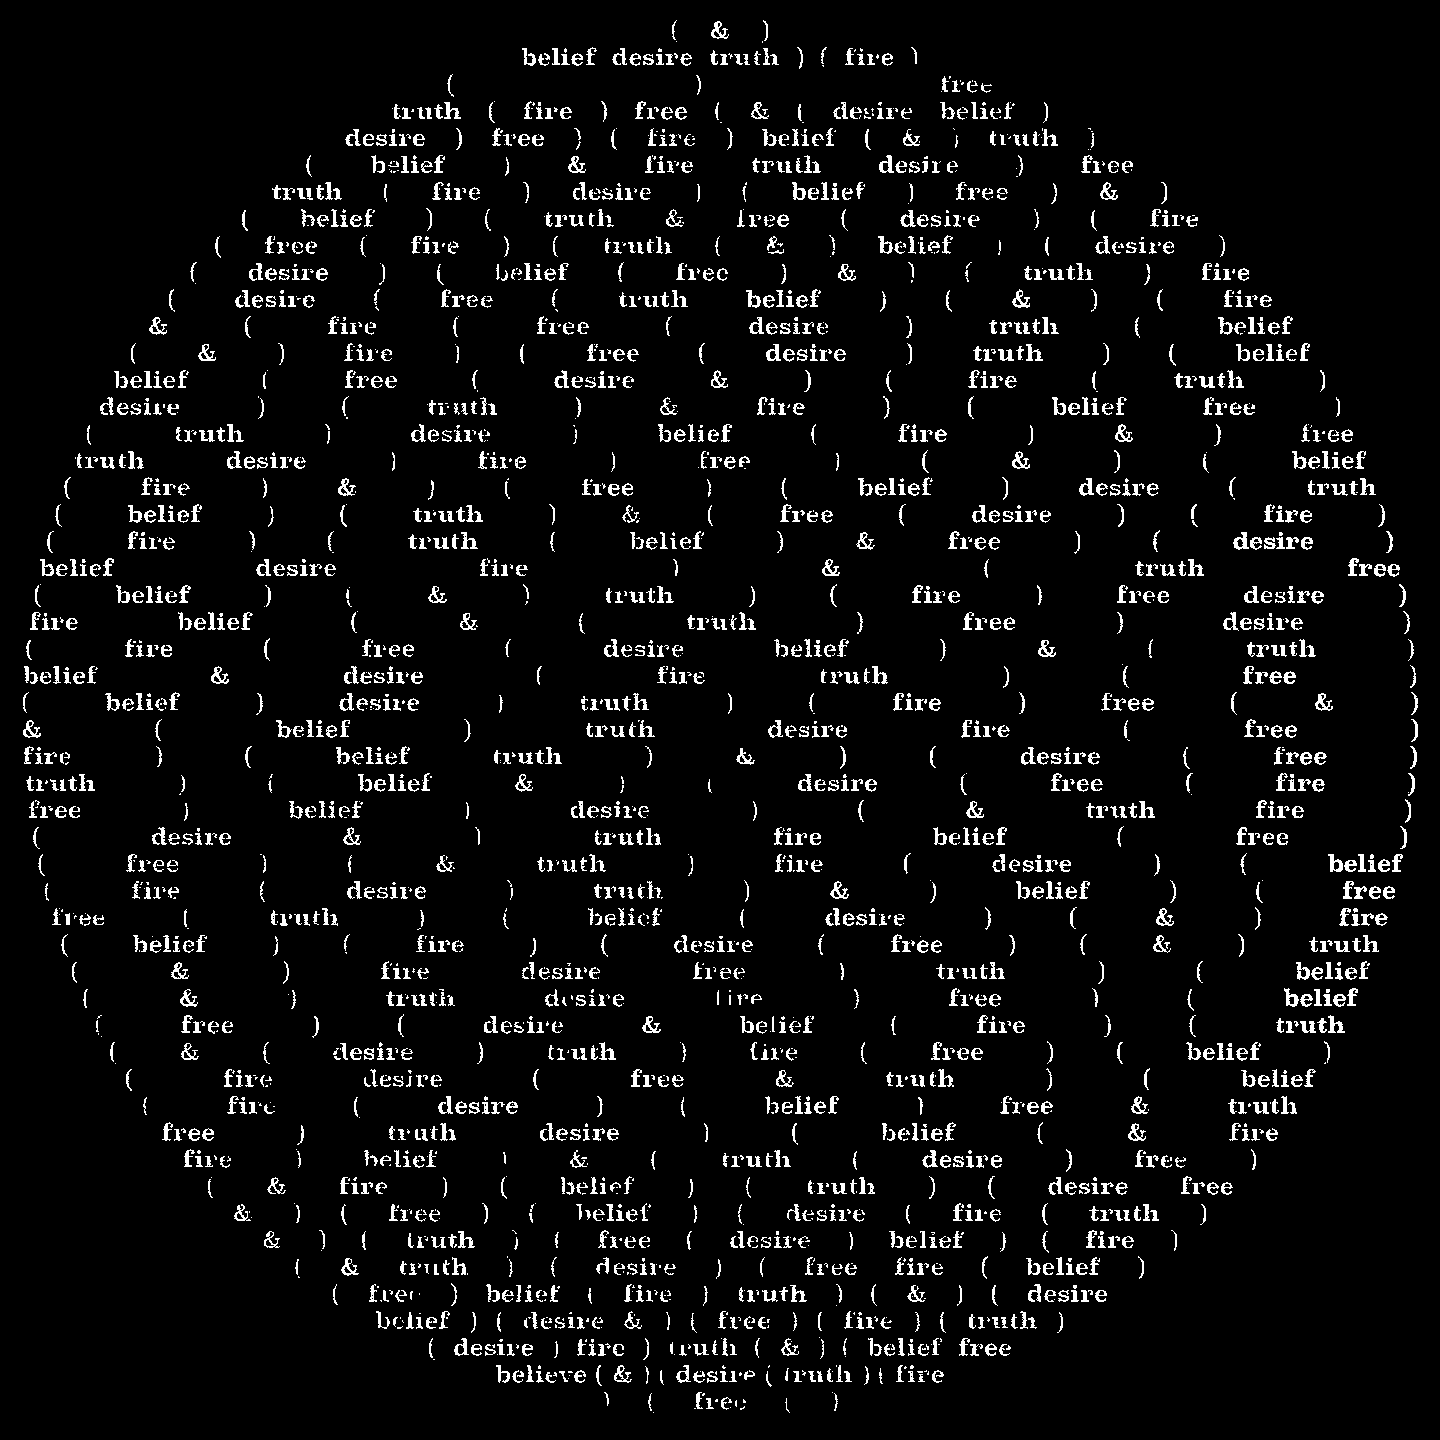
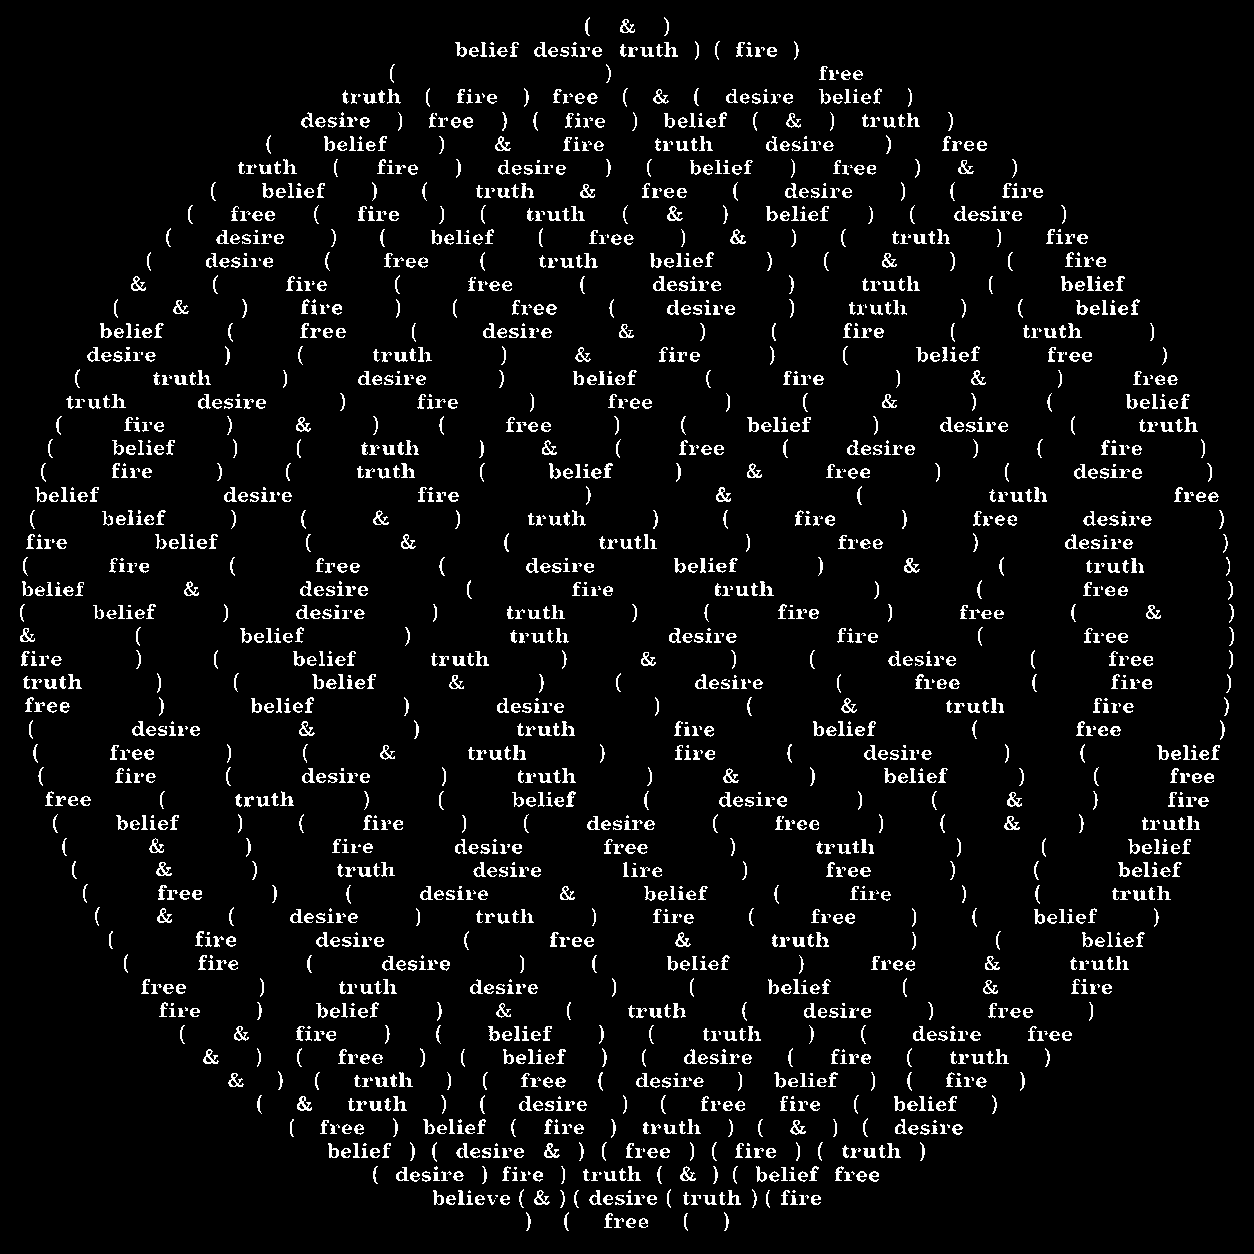
update

diff --git a/js/redirect.js b/js/redirect.js
@@ -1,6 +1,6 @@
 import {normalizeSiteUrl} from "./navigation.js";
 const legacyWorks = {"/projects/compiler-buddha":"/0/compiler-buddha","/projects/viewfinder":"/0/viewfinder","/projects/triptych":"/0/triptych","/projects/archipelago":"/0/archipelago","/projects/intraface":"/0/intraface","/projects/friday-night-never":"/0/friday-night-never","/projects/dimensional-freedom":"/0/dimensional-freedom","/projects/520-missing":"/0/520-missing","/projects/truth-visions":"/0/truth-visions","/writings/flex-space":"/0/flex-space","/writings/plight-of-center":"/0/plight-of-center","/writings/cinder-block":"/0/cinder-block","/writings/sneeze":"/0/sneeze","/writings/orchestra":"/0/orchestra","/writings/pearly-mucus":"/0/pearly-mucus","/writings/belief-and-desire":"/0/belief-and-desire","/writings/curse-of-soil":"/0/curse-of-soil","/writings/cabbage":"/0/cabbage","/writings/close-all":"/0/close-all","/writings/sweetness":"/0/sweetness","/writings/theme":"/0/theme","/writings/beach":"/0/beach","/writings/the-album":"/0/the-album","/writings/stack":"/0/stack","/writings/diego":"/0/diego"};
-const mediaNames = new Set(["520-missing_1--full.webp","520-missing_1--medium.webp","520-missing_1--small.webp","520-missing_2--full.webp","520-missing_2--medium.webp","520-missing_2--small.webp","520-missing_3--full.webp","520-missing_3--medium.webp","520-missing_3--small.webp","520-missing_4--full.webp","520-missing_4--medium.webp","520-missing_4--small.webp","520-missing_5--full.webp","520-missing_5--medium.webp","520-missing_5--small.webp","520-missing_6--full.webp","520-missing_6--medium.webp","520-missing_6--small.webp","520-missing_thumbnail--collection.webp","520-missing_thumbnail--small.webp","520-missing_thumbnail.webp","RobotoMono-Bold.woff2","RobotoMono-Regular.woff2","archipelago_1--full.webp","archipelago_1--medium.webp","archipelago_1--small.webp","archipelago_2--full.webp","archipelago_2--medium.webp","archipelago_2--small.webp","archipelago_3--full.webp","archipelago_3--medium.webp","archipelago_3--small.webp","archipelago_4--full.webp","archipelago_4--medium.webp","archipelago_4--small.webp","archipelago_5--full.webp","archipelago_5--medium.webp","archipelago_5--small.webp","archipelago_6--full.webp","archipelago_6--medium.webp","archipelago_6--small.webp","archipelago_thumbnail--collection.webp","archipelago_thumbnail--small.webp","archipelago_thumbnail.webp","bdtff--screen.webp","bdtff.webp","buddha-animation.webp","buddha-site-demo.webp","buddha.webp","compiler-buddha_thumbnail--collection.webp","compiler-buddha_thumbnail--small.webp","compiler-buddha_thumbnail.webp","contact_email--screen.webp","contact_email.webp","desire-path_vol-1.pdf","dimensional-freedom.mp4","dimensional-freedom.webm","dimensional-freedom_1--full.webp","dimensional-freedom_1--medium.webp","dimensional-freedom_1--small.webp","dimensional-freedom_2--full.webp","dimensional-freedom_2--medium.webp","dimensional-freedom_2--small.webp","dimensional-freedom_3--full.webp","dimensional-freedom_3--medium.webp","dimensional-freedom_3--small.webp","dimensional-freedom_4--full.webp","dimensional-freedom_4--medium.webp","dimensional-freedom_4--small.webp","dimensional-freedom_5--full.webp","dimensional-freedom_5--medium.webp","dimensional-freedom_5--small.webp","dimensional-freedom_6--full.webp","dimensional-freedom_6--medium.webp","dimensional-freedom_6--small.webp","dimensional-freedom_thumbnail--collection.webp","dimensional-freedom_thumbnail--small.webp","dimensional-freedom_thumbnail.webp","each-all_thumbnail--collection.webp","each-all_thumbnail--small.webp","each-all_thumbnail.webp","friday-night-never_1_1--full.webp","friday-night-never_1_1--medium.webp","friday-night-never_1_1--small.webp","friday-night-never_1_10--full.webp","friday-night-never_1_10--medium.webp","friday-night-never_1_10--small.webp","friday-night-never_1_2--full.webp","friday-night-never_1_2--medium.webp","friday-night-never_1_2--small.webp","friday-night-never_1_3--full.webp","friday-night-never_1_3--medium.webp","friday-night-never_1_3--small.webp","friday-night-never_1_4--full.webp","friday-night-never_1_4--medium.webp","friday-night-never_1_4--small.webp","friday-night-never_1_5--full.webp","friday-night-never_1_5--medium.webp","friday-night-never_1_5--small.webp","friday-night-never_1_6--full.webp","friday-night-never_1_6--medium.webp","friday-night-never_1_6--small.webp","friday-night-never_1_7--full.webp","friday-night-never_1_7--medium.webp","friday-night-never_1_7--small.webp","friday-night-never_1_8--full.webp","friday-night-never_1_8--medium.webp","friday-night-never_1_8--small.webp","friday-night-never_1_9--full.webp","friday-night-never_1_9--medium.webp","friday-night-never_1_9--small.webp","friday-night-never_2_1--full.webp","friday-night-never_2_1--medium.webp","friday-night-never_2_1--small.webp","friday-night-never_2_10--full.webp","friday-night-never_2_10--medium.webp","friday-night-never_2_10--small.webp","friday-night-never_2_2--full.webp","friday-night-never_2_2--medium.webp","friday-night-never_2_2--small.webp","friday-night-never_2_3--full.webp","friday-night-never_2_3--medium.webp","friday-night-never_2_3--small.webp","friday-night-never_2_4--full.webp","friday-night-never_2_4--medium.webp","friday-night-never_2_4--small.webp","friday-night-never_2_5--full.webp","friday-night-never_2_5--medium.webp","friday-night-never_2_5--small.webp","friday-night-never_2_6--full.webp","friday-night-never_2_6--medium.webp","friday-night-never_2_6--small.webp","friday-night-never_2_7--full.webp","friday-night-never_2_7--medium.webp","friday-night-never_2_7--small.webp","friday-night-never_2_8--full.webp","friday-night-never_2_8--medium.webp","friday-night-never_2_8--small.webp","friday-night-never_2_9--full.webp","friday-night-never_2_9--medium.webp","friday-night-never_2_9--small.webp","friday-night-never_3_1--full.webp","friday-night-never_3_1--medium.webp","friday-night-never_3_1--small.webp","friday-night-never_3_10--full.webp","friday-night-never_3_10--medium.webp","friday-night-never_3_10--small.webp","friday-night-never_3_2--full.webp","friday-night-never_3_2--medium.webp","friday-night-never_3_2--small.webp","friday-night-never_3_3--full.webp","friday-night-never_3_3--medium.webp","friday-night-never_3_3--small.webp","friday-night-never_3_4--full.webp","friday-night-never_3_4--medium.webp","friday-night-never_3_4--small.webp","friday-night-never_3_5--full.webp","friday-night-never_3_5--medium.webp","friday-night-never_3_5--small.webp","friday-night-never_3_6--full.webp","friday-night-never_3_6--medium.webp","friday-night-never_3_6--small.webp","friday-night-never_3_7--full.webp","friday-night-never_3_7--medium.webp","friday-night-never_3_7--small.webp","friday-night-never_3_8--full.webp","friday-night-never_3_8--medium.webp","friday-night-never_3_8--small.webp","friday-night-never_3_9--full.webp","friday-night-never_3_9--medium.webp","friday-night-never_3_9--small.webp","friday-night-never_thumbnail--collection.webp","friday-night-never_thumbnail--small.webp","friday-night-never_thumbnail.webp","gran-turismo.pdf","homepage-tv-face--screen.webp","homepage-tv-face.webp","intraface_1--full.webp","intraface_1--medium.webp","intraface_1--small.webp","intraface_2--full.webp","intraface_2--medium.webp","intraface_2--small.webp","intraface_3--full.webp","intraface_3--medium.webp","intraface_3--small.webp","intraface_4--full.webp","intraface_4--medium.webp","intraface_4--small.webp","intraface_5--full.webp","intraface_5--medium.webp","intraface_5--small.webp","intraface_6--full.webp","intraface_6--medium.webp","intraface_6--small.webp","intraface_thumbnail--collection.webp","intraface_thumbnail--small.webp","intraface_thumbnail.webp","jungle_thumbnail--collection.webp","jungle_thumbnail--small.webp","jungle_thumbnail.webp","loop.pdf","self_portrait.webp","sky_1.webp","sky_10--collection.webp","sky_10--small.webp","sky_10.webp","sky_11--collection.webp","sky_11--small.webp","sky_11.webp","sky_12--collection.webp","sky_12--small.webp","sky_12.webp","sky_13--collection.webp","sky_13--small.webp","sky_13.webp","sky_14--collection.webp","sky_14--small.webp","sky_14.webp","sky_15--collection.webp","sky_15--small.webp","sky_15.webp","sky_16.webp","sky_17.webp","sky_18.webp","sky_19--collection.webp","sky_19--small.webp","sky_19.webp","sky_2.webp","sky_20--collection.webp","sky_20--small.webp","sky_20.webp","sky_21--collection.webp","sky_21--small.webp","sky_21.webp","sky_22.webp","sky_3--collection.webp","sky_3--small.webp","sky_3.webp","sky_4.webp","sky_5.webp","sky_6--collection.webp","sky_6--small.webp","sky_6.webp","sky_7.webp","sky_8.webp","sky_9--collection.webp","sky_9--small.webp","sky_9.webp","specter_thumbnail--collection.webp","specter_thumbnail--small.webp","specter_thumbnail.webp","triptych_1--full.webp","triptych_1--medium.webp","triptych_1--small.webp","triptych_2--full.webp","triptych_2--medium.webp","triptych_2--small.webp","triptych_3--full.webp","triptych_3--medium.webp","triptych_3--small.webp","triptych_thumbnail--collection.webp","triptych_thumbnail--small.webp","triptych_thumbnail.webp","truth-visions.mp4","truth-visions.webm","truth-visions_1--full.webp","truth-visions_1--medium.webp","truth-visions_1--small.webp","truth-visions_thumbnail--collection.webp","truth-visions_thumbnail--small.webp","truth-visions_thumbnail.webp","viewfinder_1--full.webp","viewfinder_1--medium.webp","viewfinder_1--small.webp","viewfinder_2--full.webp","viewfinder_2--medium.webp","viewfinder_2--small.webp","viewfinder_3--full.webp","viewfinder_3--medium.webp","viewfinder_3--small.webp","viewfinder_4--full.webp","viewfinder_4--medium.webp","viewfinder_4--small.webp","viewfinder_5--full.webp","viewfinder_5--medium.webp","viewfinder_5--small.webp","viewfinder_6--full.webp","viewfinder_6--medium.webp","viewfinder_6--small.webp","viewfinder_7--full.webp","viewfinder_7--medium.webp","viewfinder_7--small.webp","viewfinder_8--full.webp","viewfinder_8--medium.webp","viewfinder_8--small.webp","viewfinder_9--full.webp","viewfinder_9--medium.webp","viewfinder_9--small.webp","viewfinder_thumbnail--collection.webp","viewfinder_thumbnail--small.webp","viewfinder_thumbnail.webp"]);
+const mediaNames = new Set(["520-missing_1--full.webp","520-missing_1--medium.webp","520-missing_1--small.webp","520-missing_2--full.webp","520-missing_2--medium.webp","520-missing_2--small.webp","520-missing_3--full.webp","520-missing_3--medium.webp","520-missing_3--small.webp","520-missing_4--full.webp","520-missing_4--medium.webp","520-missing_4--small.webp","520-missing_5--full.webp","520-missing_5--medium.webp","520-missing_5--small.webp","520-missing_6--full.webp","520-missing_6--medium.webp","520-missing_6--small.webp","520-missing_thumbnail--collection.webp","520-missing_thumbnail--small.webp","520-missing_thumbnail.webp","RobotoMono-Bold.woff2","RobotoMono-Regular.woff2","archipelago_1--full.webp","archipelago_1--medium.webp","archipelago_1--small.webp","archipelago_2--full.webp","archipelago_2--medium.webp","archipelago_2--small.webp","archipelago_3--full.webp","archipelago_3--medium.webp","archipelago_3--small.webp","archipelago_4--full.webp","archipelago_4--medium.webp","archipelago_4--small.webp","archipelago_5--full.webp","archipelago_5--medium.webp","archipelago_5--small.webp","archipelago_6--full.webp","archipelago_6--medium.webp","archipelago_6--small.webp","archipelago_thumbnail--collection.webp","archipelago_thumbnail--small.webp","archipelago_thumbnail.webp","bdtff.webp","buddha-animation.webp","buddha-site-demo.webp","buddha.webp","compiler-buddha_thumbnail--collection.webp","compiler-buddha_thumbnail--small.webp","compiler-buddha_thumbnail.webp","contact_email--screen.webp","contact_email.webp","desire-path_vol-1.pdf","dimensional-freedom.mp4","dimensional-freedom.webm","dimensional-freedom_1--full.webp","dimensional-freedom_1--medium.webp","dimensional-freedom_1--small.webp","dimensional-freedom_2--full.webp","dimensional-freedom_2--medium.webp","dimensional-freedom_2--small.webp","dimensional-freedom_3--full.webp","dimensional-freedom_3--medium.webp","dimensional-freedom_3--small.webp","dimensional-freedom_4--full.webp","dimensional-freedom_4--medium.webp","dimensional-freedom_4--small.webp","dimensional-freedom_5--full.webp","dimensional-freedom_5--medium.webp","dimensional-freedom_5--small.webp","dimensional-freedom_6--full.webp","dimensional-freedom_6--medium.webp","dimensional-freedom_6--small.webp","dimensional-freedom_thumbnail--collection.webp","dimensional-freedom_thumbnail--small.webp","dimensional-freedom_thumbnail.webp","each-all_thumbnail--collection.webp","each-all_thumbnail--small.webp","each-all_thumbnail.webp","friday-night-never_1_1--full.webp","friday-night-never_1_1--medium.webp","friday-night-never_1_1--small.webp","friday-night-never_1_10--full.webp","friday-night-never_1_10--medium.webp","friday-night-never_1_10--small.webp","friday-night-never_1_2--full.webp","friday-night-never_1_2--medium.webp","friday-night-never_1_2--small.webp","friday-night-never_1_3--full.webp","friday-night-never_1_3--medium.webp","friday-night-never_1_3--small.webp","friday-night-never_1_4--full.webp","friday-night-never_1_4--medium.webp","friday-night-never_1_4--small.webp","friday-night-never_1_5--full.webp","friday-night-never_1_5--medium.webp","friday-night-never_1_5--small.webp","friday-night-never_1_6--full.webp","friday-night-never_1_6--medium.webp","friday-night-never_1_6--small.webp","friday-night-never_1_7--full.webp","friday-night-never_1_7--medium.webp","friday-night-never_1_7--small.webp","friday-night-never_1_8--full.webp","friday-night-never_1_8--medium.webp","friday-night-never_1_8--small.webp","friday-night-never_1_9--full.webp","friday-night-never_1_9--medium.webp","friday-night-never_1_9--small.webp","friday-night-never_2_1--full.webp","friday-night-never_2_1--medium.webp","friday-night-never_2_1--small.webp","friday-night-never_2_10--full.webp","friday-night-never_2_10--medium.webp","friday-night-never_2_10--small.webp","friday-night-never_2_2--full.webp","friday-night-never_2_2--medium.webp","friday-night-never_2_2--small.webp","friday-night-never_2_3--full.webp","friday-night-never_2_3--medium.webp","friday-night-never_2_3--small.webp","friday-night-never_2_4--full.webp","friday-night-never_2_4--medium.webp","friday-night-never_2_4--small.webp","friday-night-never_2_5--full.webp","friday-night-never_2_5--medium.webp","friday-night-never_2_5--small.webp","friday-night-never_2_6--full.webp","friday-night-never_2_6--medium.webp","friday-night-never_2_6--small.webp","friday-night-never_2_7--full.webp","friday-night-never_2_7--medium.webp","friday-night-never_2_7--small.webp","friday-night-never_2_8--full.webp","friday-night-never_2_8--medium.webp","friday-night-never_2_8--small.webp","friday-night-never_2_9--full.webp","friday-night-never_2_9--medium.webp","friday-night-never_2_9--small.webp","friday-night-never_3_1--full.webp","friday-night-never_3_1--medium.webp","friday-night-never_3_1--small.webp","friday-night-never_3_10--full.webp","friday-night-never_3_10--medium.webp","friday-night-never_3_10--small.webp","friday-night-never_3_2--full.webp","friday-night-never_3_2--medium.webp","friday-night-never_3_2--small.webp","friday-night-never_3_3--full.webp","friday-night-never_3_3--medium.webp","friday-night-never_3_3--small.webp","friday-night-never_3_4--full.webp","friday-night-never_3_4--medium.webp","friday-night-never_3_4--small.webp","friday-night-never_3_5--full.webp","friday-night-never_3_5--medium.webp","friday-night-never_3_5--small.webp","friday-night-never_3_6--full.webp","friday-night-never_3_6--medium.webp","friday-night-never_3_6--small.webp","friday-night-never_3_7--full.webp","friday-night-never_3_7--medium.webp","friday-night-never_3_7--small.webp","friday-night-never_3_8--full.webp","friday-night-never_3_8--medium.webp","friday-night-never_3_8--small.webp","friday-night-never_3_9--full.webp","friday-night-never_3_9--medium.webp","friday-night-never_3_9--small.webp","friday-night-never_thumbnail--collection.webp","friday-night-never_thumbnail--small.webp","friday-night-never_thumbnail.webp","gran-turismo.pdf","homepage-tv-face--screen.webp","homepage-tv-face.webp","intraface_1--full.webp","intraface_1--medium.webp","intraface_1--small.webp","intraface_2--full.webp","intraface_2--medium.webp","intraface_2--small.webp","intraface_3--full.webp","intraface_3--medium.webp","intraface_3--small.webp","intraface_4--full.webp","intraface_4--medium.webp","intraface_4--small.webp","intraface_5--full.webp","intraface_5--medium.webp","intraface_5--small.webp","intraface_6--full.webp","intraface_6--medium.webp","intraface_6--small.webp","intraface_thumbnail--collection.webp","intraface_thumbnail--small.webp","intraface_thumbnail.webp","jungle_thumbnail--collection.webp","jungle_thumbnail--small.webp","jungle_thumbnail.webp","loop.pdf","self_portrait.webp","sky_1.webp","sky_10--collection.webp","sky_10--small.webp","sky_10.webp","sky_11--collection.webp","sky_11--small.webp","sky_11.webp","sky_12--collection.webp","sky_12--small.webp","sky_12.webp","sky_13--collection.webp","sky_13--small.webp","sky_13.webp","sky_14--collection.webp","sky_14--small.webp","sky_14.webp","sky_15--collection.webp","sky_15--small.webp","sky_15.webp","sky_16.webp","sky_17.webp","sky_18.webp","sky_19--collection.webp","sky_19--small.webp","sky_19.webp","sky_2.webp","sky_20--collection.webp","sky_20--small.webp","sky_20.webp","sky_21--collection.webp","sky_21--small.webp","sky_21.webp","sky_22.webp","sky_3--collection.webp","sky_3--small.webp","sky_3.webp","sky_4.webp","sky_5.webp","sky_6--collection.webp","sky_6--small.webp","sky_6.webp","sky_7.webp","sky_8.webp","sky_9--collection.webp","sky_9--small.webp","sky_9.webp","specter_thumbnail--collection.webp","specter_thumbnail--small.webp","specter_thumbnail.webp","triptych_1--full.webp","triptych_1--medium.webp","triptych_1--small.webp","triptych_2--full.webp","triptych_2--medium.webp","triptych_2--small.webp","triptych_3--full.webp","triptych_3--medium.webp","triptych_3--small.webp","triptych_thumbnail--collection.webp","triptych_thumbnail--small.webp","triptych_thumbnail.webp","truth-visions.mp4","truth-visions.webm","truth-visions_1--full.webp","truth-visions_1--medium.webp","truth-visions_1--small.webp","truth-visions_thumbnail--collection.webp","truth-visions_thumbnail--small.webp","truth-visions_thumbnail.webp","viewfinder_1--full.webp","viewfinder_1--medium.webp","viewfinder_1--small.webp","viewfinder_2--full.webp","viewfinder_2--medium.webp","viewfinder_2--small.webp","viewfinder_3--full.webp","viewfinder_3--medium.webp","viewfinder_3--small.webp","viewfinder_4--full.webp","viewfinder_4--medium.webp","viewfinder_4--small.webp","viewfinder_5--full.webp","viewfinder_5--medium.webp","viewfinder_5--small.webp","viewfinder_6--full.webp","viewfinder_6--medium.webp","viewfinder_6--small.webp","viewfinder_7--full.webp","viewfinder_7--medium.webp","viewfinder_7--small.webp","viewfinder_8--full.webp","viewfinder_8--medium.webp","viewfinder_8--small.webp","viewfinder_9--full.webp","viewfinder_9--medium.webp","viewfinder_9--small.webp","viewfinder_thumbnail--collection.webp","viewfinder_thumbnail--small.webp","viewfinder_thumbnail.webp"]);
 const originalUrl = new URL(location.href);
 const canonicalUrl = normalizeSiteUrl(originalUrl);
 const oldWork = location.pathname.replace(/\/$/, '').replace(/\.html$/, '');

diff --git a/index.html b/index.html
@@ -89,7 +89,7 @@
         <noscript><nav class="fallback-navigation" aria-label="sections"><a href="#collection">collection</a><a href="#about">about</a></nav><style>.home-view{display:none}.site-view:not([open]){display:block;position:relative;height:auto;overflow:visible}.site-view .site-header,.color-palette,.color-artifacts,.collection-artifacts{display:none}</style></noscript>
         <dialog class="site-view about-view" id="about" data-about-view data-color-composition aria-label="about"><div class="site-header page-header"><div class="site-identity"><a href="/" data-view-link="home" aria-label="KEVIN CUNANAN CHAPPELLE"><svg viewBox="0 0 1200 400" preserveAspectRatio="none" aria-hidden="true" focusable="false"><text x="0" y="350" font-size="400" textLength="1200" lengthAdjust="spacingAndGlyphs">KEVIN CUNANAN CHAPPELLE</text></svg><span class="visually-hidden">KEVIN CUNANAN CHAPPELLE</span></a></div><nav class="site-nav" aria-label="primary"><a href="/" data-view-link="home" aria-label="home"><span class="nav-code" aria-hidden="true">[=]</span><span class="nav-label">home</span></a><a href="/?view=collection" data-view-link="collection" aria-label="collection"><span class="nav-code" aria-hidden="true">[*]</span><span class="nav-label">collection</span></a><a href="/?view=about" data-view-link="about" aria-label="about" aria-current="page"><span class="nav-code" aria-hidden="true">[?]</span><span class="nav-label">about</span></a><a href="https://kvnchpl-thoughts.tumblr.com/" aria-label="thoughts"><span class="nav-code" aria-hidden="true">???</span><span class="nav-label">thoughts</span></a></nav></div>
         <section class="about-room" aria-label="about"><div class="about-copy"><img class="about-image" src="/a/contact_email--screen.webp" width="840" height="840" alt="contact email" /><p class="contact-text"><span class="about-name">KEVIN CUNANAN CHAPPELLE</span> ***<br>artist and stuff<br>based in brooklyn, ny</p>
-<img class="about-image" src="/a/bdtff--screen.webp" width="600" height="600" alt="Belief, desire, truth, fire, free" /></div></section>
+<img class="about-image" src="/a/bdtff.webp?v=binary" width="1254" height="1254" alt="Belief, desire, truth, fire, free" /></div></section>
 <div class="color-artifacts" data-color-artifacts aria-hidden="true"><span class="color-rectangle" style="background:blue;left:70%;top:48%;width:25%;height:12%"></span></div>
 <div class="color-palette" role="group" aria-label="color interventions"><button type="button" data-color="#000000" aria-label="black" aria-pressed="false" style="--swatch:#000000"></button><button type="button" data-color="#ffffff" aria-label="white" aria-pressed="false" style="--swatch:#ffffff"></button><button type="button" data-color="#ff0000" aria-label="red" aria-pressed="false" style="--swatch:#ff0000"></button><button type="button" data-color="#00ff00" aria-label="green" aria-pressed="false" style="--swatch:#00ff00"></button><button type="button" data-color="#0000ff" aria-label="blue" aria-pressed="true" style="--swatch:#0000ff"></button><button type="button" data-color="#00ffff" aria-label="cyan" aria-pressed="false" style="--swatch:#00ffff"></button><button type="button" data-color="#ff00ff" aria-label="magenta" aria-pressed="false" style="--swatch:#ff00ff"></button><button type="button" data-color="#ffff00" aria-label="yellow" aria-pressed="false" style="--swatch:#ffff00"></button></div></dialog>
         <p class="visually-hidden" data-view-announcement role="status" aria-live="polite"></p>
